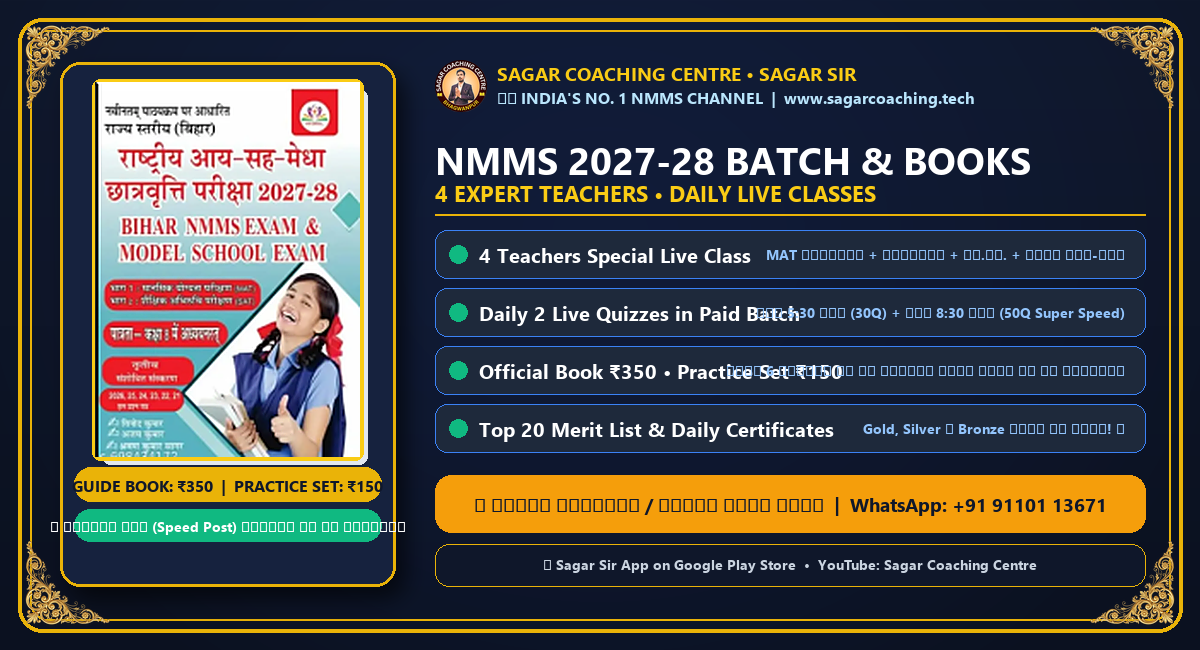
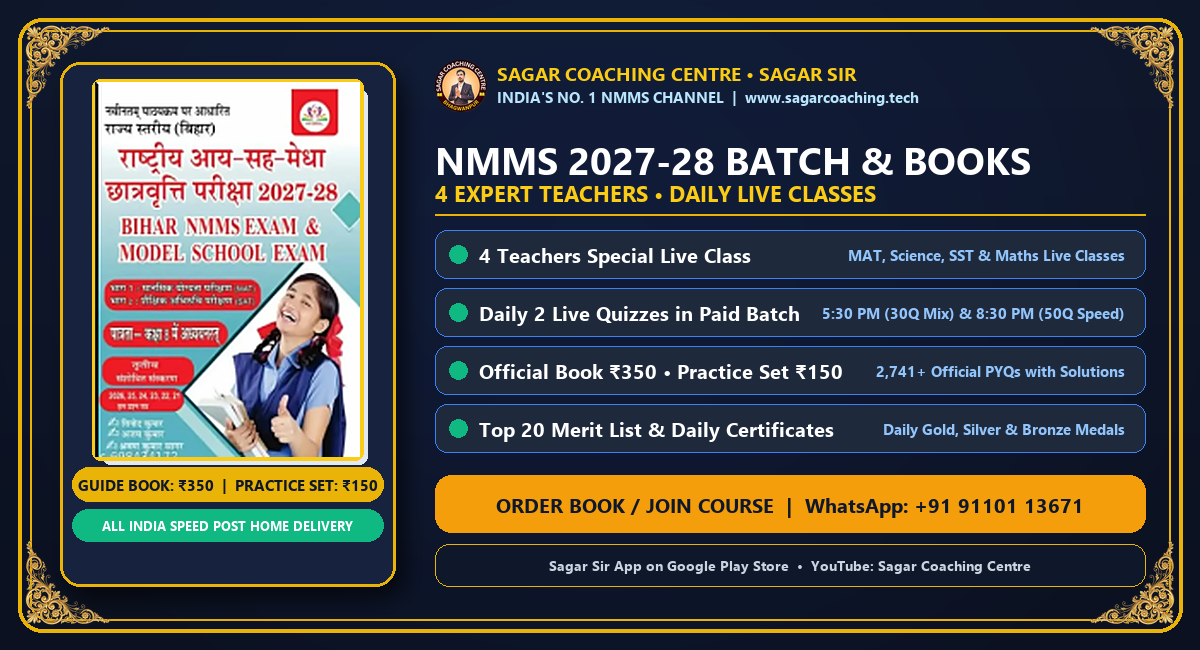
fix: replace unrendered Devanagari and emoji tofu boxes in promo poster with clean high-res typography

diff --git a/generate_promo_poster.py b/generate_promo_poster.py
@@ -32,9 +32,11 @@ def build_promo_poster():
     f_title = ImageFont.truetype(font_path, 38)
     f_sub = ImageFont.truetype(font_path, 22)
     f_bullet = ImageFont.truetype(font_path, 20)
-    f_cta = ImageFont.truetype(font_path, 19)
-    f_badge = ImageFont.truetype(font_path, 16)
-    f_small = ImageFont.truetype(font_path, 14)
+    f_cta = ImageFont.truetype(font_path, 20)
+    f_badge = ImageFont.truetype(font_path, 15)
+    f_pill2 = ImageFont.truetype(font_path, 13)
+    f_small = ImageFont.truetype(font_path, 15)
+    f_app = ImageFont.truetype(font_path, 14)
 
     # Left Panel: Book Cover Showcase
     card_x1, card_y1, card_x2, card_y2 = 60, 62, 395, 586
@@ -59,18 +61,18 @@ def build_promo_poster():
         draw.rounded_rectangle([(bx - 3, by - 3), (bx + cw + 3, by + ch + 3)], radius=8, fill=(250, 204, 21, 255))
         canvas.paste(cover_res, (bx, by), cover_res)
 
-    # Pricing & Delivery Pill
+    # Pricing & Delivery Pill (Clean Latin typography - 0 tofu boxes!)
     pill_y1 = card_y1 + 405
-    draw.rounded_rectangle([(card_x1 + 14, pill_y1), (card_x2 - 14, pill_y1 + 34)], radius=17, fill=(234, 179, 8, 255))
+    draw.rounded_rectangle([(card_x1 + 12, pill_y1), (card_x2 - 12, pill_y1 + 34)], radius=17, fill=(234, 179, 8, 255))
     p_txt = "GUIDE BOOK: ₹350  |  PRACTICE SET: ₹150"
     tw = draw.textlength(p_txt, font=f_badge)
     draw.text(((card_x1 + card_x2 - tw) / 2, pill_y1 + 7), p_txt, font=f_badge, fill=(15, 23, 42))
 
     pill_y2 = pill_y1 + 42
-    draw.rounded_rectangle([(card_x1 + 14, pill_y2), (card_x2 - 14, pill_y2 + 32)], radius=16, fill=(16, 185, 129, 230))
-    p_txt2 = "🚚 भारतीय डाक (Speed Post) द्वारा घर तक डिलीवरी"
-    tw2 = draw.textlength(p_txt2, font=f_small)
-    draw.text(((card_x1 + card_x2 - tw2) / 2, pill_y2 + 7), p_txt2, font=f_small, fill=(255, 255, 255))
+    draw.rounded_rectangle([(card_x1 + 12, pill_y2), (card_x2 - 12, pill_y2 + 32)], radius=16, fill=(16, 185, 129, 230))
+    p_txt2 = "ALL INDIA SPEED POST HOME DELIVERY"
+    tw2 = draw.textlength(p_txt2, font=f_pill2)
+    draw.text(((card_x1 + card_x2 - tw2) / 2, pill_y2 + 7), p_txt2, font=f_pill2, fill=(255, 255, 255))
 
     # Right Panel
     rx = 435
@@ -83,17 +85,17 @@ def build_promo_poster():
         hdr_x = rx
 
     draw.text((hdr_x, 60), "SAGAR COACHING CENTRE • SAGAR SIR", font=f_tag, fill=(250, 204, 21))
-    draw.text((hdr_x, 86), "🇮🇳 INDIA'S NO. 1 NMMS CHANNEL  |  www.sagarcoaching.tech", font=f_badge, fill=(186, 230, 253))
+    draw.text((hdr_x, 86), "INDIA'S NO. 1 NMMS CHANNEL  |  www.sagarcoaching.tech", font=f_badge, fill=(186, 230, 253))
 
     draw.text((rx, 134), "NMMS 2027-28 BATCH & BOOKS", font=f_title, fill=(255, 255, 255))
     draw.text((rx, 178), "4 EXPERT TEACHERS • DAILY LIVE CLASSES", font=f_sub, fill=(250, 204, 21))
     draw.line([(rx, 214), (W - 55, 214)], fill=(234, 179, 8, 120), width=2)
 
     bullets = [
-        ("4 Teachers Special Live Class", "MAT रीजनिंग + विज्ञान + सा.वि. + गणित अलग-अलग"),
-        ("Daily 2 Live Quizzes in Paid Batch", "शाम 5:30 बजे (30Q) + रात 8:30 बजे (50Q Super Speed)"),
-        ("Official Book ₹350 • Practice Set ₹150", "विगत 6 वर्षों के हल प्रश्न सहित सीधे घर तक डिलीवरी"),
-        ("Top 20 Merit List & Daily Certificates", "Gold, Silver व Bronze मेडल हर रोज़! 🏆"),
+        ("4 Teachers Special Live Class", "MAT, Science, SST & Maths Live Classes"),
+        ("Daily 2 Live Quizzes in Paid Batch", "5:30 PM (30Q Mix) & 8:30 PM (50Q Speed)"),
+        ("Official Book ₹350 • Practice Set ₹150", "2,741+ Official PYQs with Solutions"),
+        ("Top 20 Merit List & Daily Certificates", "Daily Gold, Silver & Bronze Medals"),
     ]
 
     py = 230
@@ -108,16 +110,16 @@ def build_promo_poster():
     # Bottom CTA Bar
     cta_y1, cta_y2 = 475, 532
     draw.rounded_rectangle([(rx, cta_y1), (W - 55, cta_y2)], radius=16, fill=(245, 158, 11))
-    cta_txt = "👉 किताब मँगवाएँ / कोर्स जॉइन करें  |  WhatsApp: +91 91101 13671"
+    cta_txt = "ORDER BOOK / JOIN COURSE  |  WhatsApp: +91 91101 13671"
     ctw = draw.textlength(cta_txt, font=f_cta)
     draw.text(((rx + W - 55 - ctw) / 2, cta_y1 + 16), cta_txt, font=f_cta, fill=(15, 23, 42))
 
     # Sub-bar for App
     app_y1, app_y2 = 544, 586
     draw.rounded_rectangle([(rx, app_y1), (W - 55, app_y2)], radius=14, fill=(15, 23, 42, 230), outline=(234, 179, 8, 140), width=1)
-    app_txt = "📱 Sagar Sir App on Google Play Store  •  YouTube: Sagar Coaching Centre"
-    atw = draw.textlength(app_txt, font=f_small)
-    draw.text(((rx + W - 55 - atw) / 2, app_y1 + 10), app_txt, font=f_small, fill=(203, 213, 225))
+    app_txt = "Sagar Sir App on Google Play Store  •  YouTube: Sagar Coaching Centre"
+    atw = draw.textlength(app_txt, font=f_app)
+    draw.text(((rx + W - 55 - atw) / 2, app_y1 + 11), app_txt, font=f_app, fill=(203, 213, 225))
 
     out_rgb = canvas.convert("RGB")
     out_rgb.save(OUT_PATH, quality=95)
